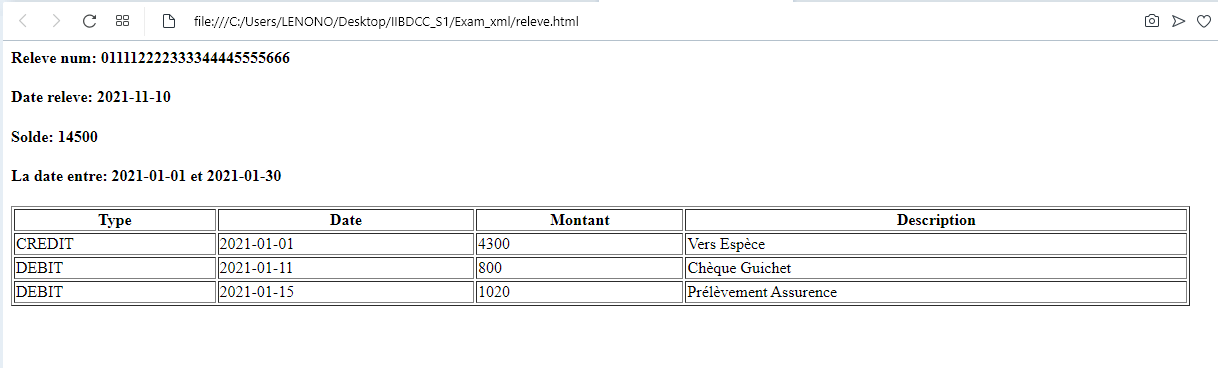
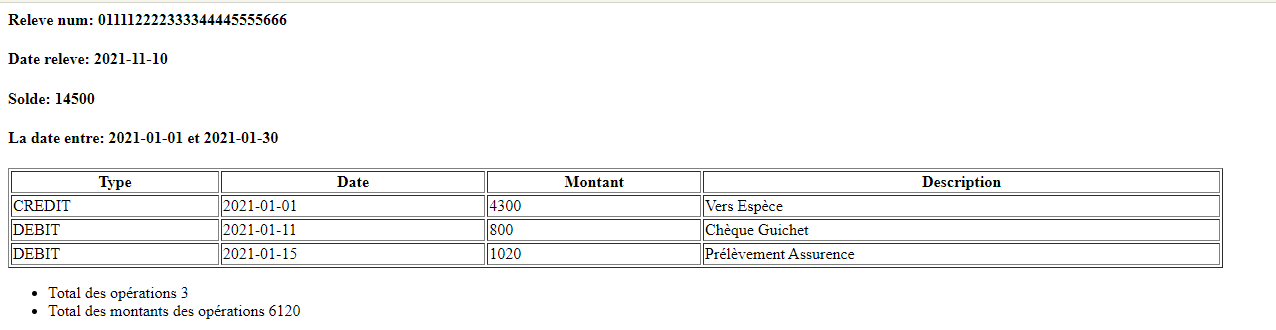
initial load

Changed region(s): [[0.0, 0.2424, 0.9984, 0.9697], [0.0, 0.0, 0.4992, 0.2121], [0.624, 0.0, 1.0, 0.0909]]

diff --git a/Partie_1/ReleveTotal.html b/Partie_1/ReleveTotal.html
@@ -1,6 +1,7 @@
 <html>
    <head>
-      <meta http-equiv="Content-Type" content="text/html; charset=UTF-8">
+      <meta http-equiv="Content-Type" content="text/html; charset=utf-8">
+   
       <title>Releve</title>
    </head>
    <body>
@@ -19,20 +20,28 @@
             <td>CREDIT</td>
             <td>2021-01-01</td>
             <td>4300</td>
-            <td>Vers Espèce</td>
+            <td>Vers Esp&egrave;ce</td>
          </tr>
          <tr>
             <td>DEBIT</td>
             <td>2021-01-11</td>
             <td>800</td>
-            <td>Chèque Guichet</td>
+            <td>Ch&egrave;que Guichet</td>
          </tr>
          <tr>
             <td>DEBIT</td>
             <td>2021-01-15</td>
             <td>1020</td>
-            <td>Prélèvement Assurence</td>
+            <td>Pr&eacute;l&egrave;vement Assurence</td>
          </tr>
       </table>
+      <ul>
+         <li>Total des op&eacute;rations
+            3
+         </li>
+         <li>Total des montants des op&eacute;rations
+            6120
+         </li>
+      </ul>
    </body>
 </html>

diff --git a/Partie_2&3/Releve/src/main/java/releve/ApplicationUnmarshaller.java b/Partie_2&3/Releve/src/main/java/releve/ApplicationUnmarshaller.java
@@ -12,12 +12,19 @@ public class ApplicationUnmarshaller {
         Unmarshaller unmarshaller = jaxbContext.createUnmarshaller();
         Releve releve = (Releve) unmarshaller.unmarshal(new File("Releve.xml"));
 
-        System.out.println(releve.getRIB());
-        System.out.println(releve.getDateReleve());
-        System.out.println(releve.getSolde());
+        System.out.println("RIB: "+ releve.getRIB());
+        System.out.println("Date de releve: "+releve.getDateReleve());
+        System.out.println("Solde: "+releve.getSolde());
+        System.out.println("Date debut operation: "+releve.getOp().getDateDebut());
+        System.out.println("Date fin operation: "+releve.getOp().getDateFin());
         for (Operation opera : releve.getOp().getOperation()){
-          System.out.println(opera.toString());
-     }
+            System.out.println("-----------------------------");
+            System.out.println("Type: "+opera.getType());
+            System.out.println("Date: "+opera.getDate());
+            System.out.println("Montant: "+opera.getMontant());
+            System.out.println("Description: "+opera.getDescription());
+        }
+
     }
     }
 
